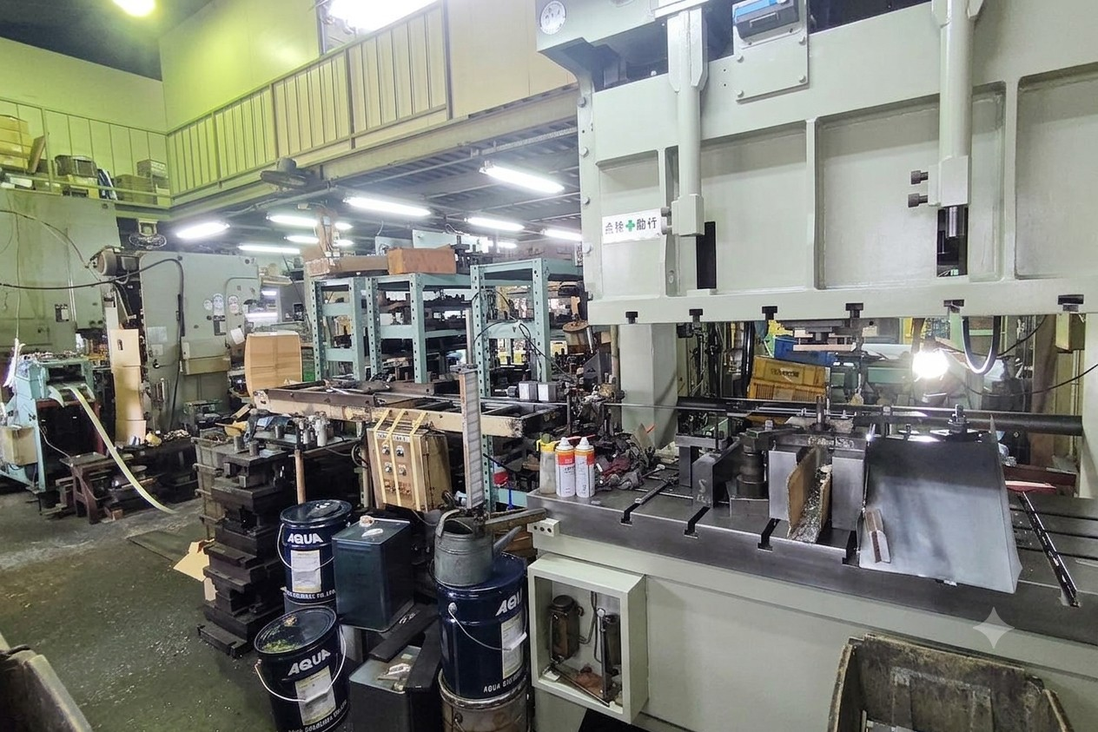
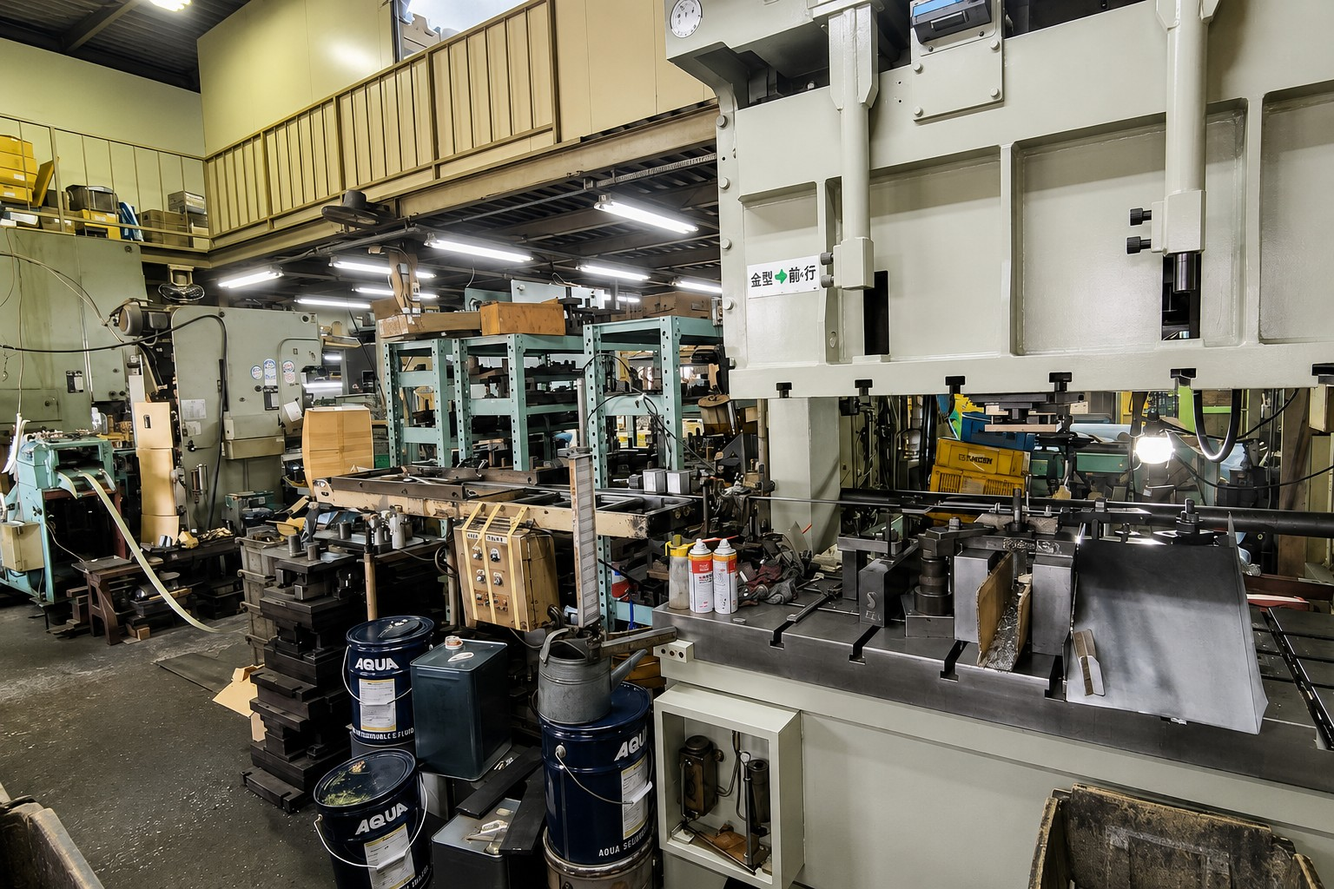
会社概要のスマホ表示と工場画像を更新

diff --git a/company.html b/company.html
@@ -1,10 +1,10 @@
 <!doctype html>
 <html lang="ja"><head><meta charset="UTF-8"><meta name="viewport" content="width=device-width,initial-scale=1">
-<title>会社概要・アクセス | 株式会社園田工作所</title><meta name="description" content="1953年創業、1967年株式会社設立。大阪府豊中市の金属加工会社、株式会社園田工作所の会社情報、沿革、所在地をご案内します。"><meta name="robots" content="index,follow,max-image-preview:large"><link rel="canonical" href="https://sonoda-kousakusho.com/company.html"><meta property="og:locale" content="ja_JP"><meta property="og:type" content="article"><meta property="og:site_name" content="株式会社園田工作所"><meta property="og:title" content="会社概要・アクセス | 株式会社園田工作所"><meta property="og:description" content="1953年創業。株式会社園田工作所の会社情報、沿革、アクセスをご案内します。"><meta property="og:url" content="https://sonoda-kousakusho.com/company.html"><meta property="og:image" content="https://sonoda-kousakusho.com/images/sign.jpg"><meta name="twitter:card" content="summary_large_image"><script type="application/ld+json">{"@context":"https://schema.org","@type":"LocalBusiness","@id":"https://sonoda-kousakusho.com/#organization","name":"株式会社園田工作所","url":"https://sonoda-kousakusho.com/","image":"https://sonoda-kousakusho.com/images/hero-factory.jpg","logo":"https://sonoda-kousakusho.com/images/logo.png","foundingDate":"1953","telephone":"+81-6-6334-9237","email":"TS.SonodaFactoryCorp@outlook.jp","address":{"@type":"PostalAddress","streetAddress":"庄内栄町4-21-7","addressLocality":"豊中市","addressRegion":"大阪府","addressCountry":"JP"}}</script><link rel="stylesheet" href="css/style.css?v=20260706-6"></head>
+<title>会社概要・アクセス | 株式会社園田工作所</title><meta name="description" content="1953年創業、1967年株式会社設立。大阪府豊中市の金属加工会社、株式会社園田工作所の会社情報、沿革、所在地をご案内します。"><meta name="robots" content="index,follow,max-image-preview:large"><link rel="canonical" href="https://sonoda-kousakusho.com/company.html"><meta property="og:locale" content="ja_JP"><meta property="og:type" content="article"><meta property="og:site_name" content="株式会社園田工作所"><meta property="og:title" content="会社概要・アクセス | 株式会社園田工作所"><meta property="og:description" content="1953年創業。株式会社園田工作所の会社情報、沿革、アクセスをご案内します。"><meta property="og:url" content="https://sonoda-kousakusho.com/company.html"><meta property="og:image" content="https://sonoda-kousakusho.com/images/sign.jpg"><meta name="twitter:card" content="summary_large_image"><script type="application/ld+json">{"@context":"https://schema.org","@type":"LocalBusiness","@id":"https://sonoda-kousakusho.com/#organization","name":"株式会社園田工作所","url":"https://sonoda-kousakusho.com/","image":"https://sonoda-kousakusho.com/images/hero-factory.jpg","logo":"https://sonoda-kousakusho.com/images/logo.png","foundingDate":"1953","telephone":"+81-6-6334-9237","email":"TS.SonodaFactoryCorp@outlook.jp","address":{"@type":"PostalAddress","streetAddress":"庄内栄町4-21-7","addressLocality":"豊中市","addressRegion":"大阪府","addressCountry":"JP"}}</script><link rel="stylesheet" href="css/style.css?v=20260706-7"></head>
 <body class="subpage"><header class="site-header subpage-header" id="header"><a class="logo" href="index.html"><img src="images/logo.png" alt="株式会社園田工作所"></a><button class="menu-button" id="menuButton" aria-label="メニューを開く" aria-expanded="false">Menu</button><nav class="global-nav" id="globalNav"><a href="service.html">事業内容</a><a href="equipment.html">設備紹介</a><a href="works.html">加工事例</a><a href="company.html" aria-current="page">会社概要</a><a class="nav-contact" href="contact.html">お問い合わせ</a></nav></header>
 <main><section class="page-hero"><div><p class="eyebrow">Company</p><h1>会社概要</h1><p>ものづくりに、誠実に向き合う。</p></div></section><nav class="breadcrumb"><a href="index.html">トップ</a><span>/</span><span>会社概要</span></nav>
 <section class="section company-message reveal"><div class="section-title"><p>Message</p><h2>確かな技術で、<br>ご要望をかたちに。</h2></div><div class="message-body"><p>株式会社園田工作所は、金属加工を通じてお客様のものづくりを支える会社です。</p><p>長年培ってきた技術と現場対応力を活かし、ステンレス・鉄・アルミなどの加工から、組立、品質検査、梱包、発送まで一貫して対応します。小ロットや特注品、現物・既存金型からの製作にも柔軟に向き合います。</p></div></section>
 <section class="section history-section reveal"><div class="section-title"><p>History</p><h2>沿革</h2></div><ol class="history-list"><li><time>1953</time><div><h3>創業</h3><p>園田工作所としてものづくりを開始。</p></div></li><li><time>1967</time><div><h3>株式会社設立</h3><p>株式会社園田工作所を設立。</p></div></li></ol></section>
 <section class="section company-profile reveal"><div class="section-title"><p>Profile</p><h2>会社情報</h2></div><div class="profile-layout"><img src="images/sign.jpg" alt="株式会社園田工作所" loading="lazy"><table class="profile-table"><tbody><tr><th>会社名</th><td>株式会社園田工作所</td></tr><tr><th>所在地</th><td>大阪府豊中市庄内栄町4-21-7</td></tr><tr><th>電話番号</th><td><a href="tel:0663349237">06-6334-9237</a></td></tr><tr><th>FAX番号</th><td>06-6334-9055</td></tr><tr><th>事業内容</th><td>ステンレス・鉄・アルミなどの金属加工、組立、品質検査、梱包、発送、現物・既存金型からの製作</td></tr></tbody></table></div></section>
 <section class="section access-section reveal"><div class="section-title"><p>Access</p><h2>アクセス</h2></div><div class="access-layout"><div class="access-info"><h3>株式会社園田工作所</h3><p>大阪府豊中市庄内栄町4-21-7</p><a href="https://www.google.com/maps/search/?api=1&query=%E5%A4%A7%E9%98%AA%E5%BA%9C%E8%B1%8A%E4%B8%AD%E5%B8%82%E5%BA%84%E5%86%85%E6%A0%84%E7%94%BA4-21-7" target="_blank" rel="noopener noreferrer" class="text-link">Googleマップで開く <span>→</span></a></div><div class="map-wrap"><iframe src="https://www.google.com/maps?q=%E5%A4%A7%E9%98%AA%E5%BA%9C%E8%B1%8A%E4%B8%AD%E5%B8%82%E5%BA%84%E5%86%85%E6%A0%84%E7%94%BA4-21-7&amp;output=embed" title="株式会社園田工作所の所在地" loading="lazy" referrerpolicy="no-referrer-when-downgrade" allowfullscreen></iframe></div></div></section>
-<section class="company-cta reveal"><p class="eyebrow">Contact</p><h2>金属加工のご相談を承ります</h2><a href="contact.html" class="btn primary">お問い合わせはこちら</a></section></main><footer class="site-footer"><p>&copy; 株式会社園田工作所</p></footer><script src="js/script.js"></script></body></html>
+<section class="company-cta reveal"><p class="eyebrow">Contact</p><h2>金属加工のご相談を<span class="mobile-break">承ります</span></h2><a href="contact.html" class="btn primary">お問い合わせはこちら</a></section></main><footer class="site-footer"><p>&copy; 株式会社園田工作所</p></footer><script src="js/script.js"></script></body></html>

diff --git a/service.html b/service.html
@@ -1,4 +1,4 @@
-<!DOCTYPE html><html lang="ja"><head><meta charset="UTF-8"><meta name="viewport" content="width=device-width,initial-scale=1"><title>事業内容・一貫対応の金属加工 | 株式会社園田工作所</title><meta name="description" content="ステンレス・鉄・アルミなどの金属加工に対応。材料手配から加工、組立、品質検査、梱包、発送まで一貫してお任せいただけます。"><meta name="robots" content="index,follow,max-image-preview:large"><link rel="canonical" href="https://sonoda-kousakusho.com/service.html"><meta property="og:locale" content="ja_JP"><meta property="og:type" content="article"><meta property="og:site_name" content="株式会社園田工作所"><meta property="og:title" content="事業内容・一貫対応の金属加工 | 株式会社園田工作所"><meta property="og:description" content="材料手配から加工、組立、品質検査、梱包、発送まで一貫対応。現物や既存金型からの製作もご相談いただけます。"><meta property="og:url" content="https://sonoda-kousakusho.com/service.html"><meta property="og:image" content="https://sonoda-kousakusho.com/images/equipment-press.jpg"><meta name="twitter:card" content="summary_large_image"><link rel="stylesheet" href="css/style.css?v=20260706-6"></head><body class="subpage"><header class="site-header subpage-header" id="header"><a class="logo" href="index.html"><img src="images/logo.png" alt="株式会社園田工作所"></a><button class="menu-button" id="menuButton" aria-label="メニューを開く" aria-expanded="false">Menu</button><nav class="global-nav" id="globalNav"><a href="service.html" aria-current="page">事業内容</a><a href="equipment.html">設備紹介</a><a href="works.html">加工事例</a><a href="company.html">会社概要</a><a class="nav-contact" href="contact.html">お問い合わせ</a></nav></header><main><section class="page-hero service-hero"><div><p class="eyebrow">Service</p><h1>事業内容</h1><p>材料手配から発送まで、柔軟な一貫対応。</p></div></section><nav class="breadcrumb"><a href="index.html">トップ</a><span>/</span><span>事業内容</span></nav>
+<!DOCTYPE html><html lang="ja"><head><meta charset="UTF-8"><meta name="viewport" content="width=device-width,initial-scale=1"><title>事業内容・一貫対応の金属加工 | 株式会社園田工作所</title><meta name="description" content="ステンレス・鉄・アルミなどの金属加工に対応。材料手配から加工、組立、品質検査、梱包、発送まで一貫してお任せいただけます。"><meta name="robots" content="index,follow,max-image-preview:large"><link rel="canonical" href="https://sonoda-kousakusho.com/service.html"><meta property="og:locale" content="ja_JP"><meta property="og:type" content="article"><meta property="og:site_name" content="株式会社園田工作所"><meta property="og:title" content="事業内容・一貫対応の金属加工 | 株式会社園田工作所"><meta property="og:description" content="材料手配から加工、組立、品質検査、梱包、発送まで一貫対応。現物や既存金型からの製作もご相談いただけます。"><meta property="og:url" content="https://sonoda-kousakusho.com/service.html"><meta property="og:image" content="https://sonoda-kousakusho.com/images/equipment-press.jpg"><meta name="twitter:card" content="summary_large_image"><link rel="stylesheet" href="css/style.css?v=20260706-7"></head><body class="subpage"><header class="site-header subpage-header" id="header"><a class="logo" href="index.html"><img src="images/logo.png" alt="株式会社園田工作所"></a><button class="menu-button" id="menuButton" aria-label="メニューを開く" aria-expanded="false">Menu</button><nav class="global-nav" id="globalNav"><a href="service.html" aria-current="page">事業内容</a><a href="equipment.html">設備紹介</a><a href="works.html">加工事例</a><a href="company.html">会社概要</a><a class="nav-contact" href="contact.html">お問い合わせ</a></nav></header><main><section class="page-hero service-hero"><div><p class="eyebrow">Service</p><h1>事業内容</h1><p>材料手配から発送まで、柔軟な一貫対応。</p></div></section><nav class="breadcrumb"><a href="index.html">トップ</a><span>/</span><span>事業内容</span></nav>
 <section class="section detail-lead reveal"><div class="section-title"><p>What We Do</p><h2>加工から発送まで、<br>ものづくりを一貫して。</h2></div><p>ステンレス・鉄・アルミなどの加工に加え、材料の手配、組立、品質検査、梱包、ご指定先への発送まで自社で一貫して対応します。図面に基づく製作はもちろん、現物や既存の金型を確認しながら、同等品の製作方法を検討することも可能です。</p></section>
 <section class="section detail-cards"><article class="detail-card reveal"><span>01</span><img src="images/stainless.jpg" alt="ステンレス加工"><div><h2>ステンレス加工</h2><p>耐久性・耐食性が求められる部品や金物を、形状や使用環境に合わせて丁寧に加工します。小ロットや特注品にも柔軟に対応します。</p></div></article><article class="detail-card reveal"><span>02</span><img src="images/steel.jpg" alt="鉄・アルミなど各種金属加工"><div><h2>鉄・アルミなど<br>各種金属加工</h2><p>鉄・アルミをはじめ、用途や仕様に応じた各種金属加工に対応します。素材や形状を踏まえて適切な製作方法を検討します。</p></div></article><article class="detail-card reveal"><span>03</span><img src="images/assembly.jpg" alt="部品の組立作業"><div><h2>組立・品質検査・梱包</h2><p>加工後の部品の組立から品質検査、梱包まで自社で対応します。完成品として仕上げ、ご指定の納品先へ直接発送することも可能です。</p></div></article><article class="detail-card reveal"><span>04</span><img class="mold-card-image" src="images/equipment-shelf.jpg" alt="保管されている既存金型"><div><h2>現物・既存金型からの製作</h2><p>図面が残っていない古い製品でも、現物の寸法や形状、既存の金型を確認しながら製作方法を検討します。</p></div></article></section>
 <section class="process-band reveal"><div class="section-title center"><p>Flow</p><h2>ご相談から発送まで</h2></div><ol class="simple-flow"><li><span>01</span><strong>ご相談・仕様確認</strong><p>用途、素材、数量、納期などを確認します。</p></li><li><span>02</span><strong>材料手配・加工</strong><p>仕様に合わせて材料を手配し、加工します。</p></li><li><span>03</span><strong>組立・品質検査</strong><p>必要に応じて組み立て、品質を確認します。</p></li><li><span>04</span><strong>梱包・発送</strong><p>完成品を梱包し、ご指定先へ発送します。</p></li></ol></section><section class="company-cta reveal"><p class="eyebrow">Contact</p><h2>材料手配から発送までご相談ください</h2><a href="contact.html" class="btn primary">お問い合わせ</a></section></main><footer class="site-footer"><p>&copy; 株式会社園田工作所</p></footer><script src="js/script.js"></script></body></html>

diff --git a/contact.html b/contact.html
@@ -1,4 +1,4 @@
-<!DOCTYPE html><html lang="ja"><head><meta charset="UTF-8"><meta name="viewport" content="width=device-width,initial-scale=1"><title>金属加工のお問い合わせ | 株式会社園田工作所</title><meta name="description" content="金属加工から組立、品質検査、梱包、発送まで株式会社園田工作所へご相談ください。現物や既存金型からの製作にも対応します。"><meta name="robots" content="index,follow,max-image-preview:large"><link rel="canonical" href="https://sonoda-kousakusho.com/contact.html"><meta property="og:locale" content="ja_JP"><meta property="og:type" content="article"><meta property="og:site_name" content="株式会社園田工作所"><meta property="og:title" content="金属加工のお問い合わせ | 株式会社園田工作所"><meta property="og:description" content="材料手配から加工、組立、品質検査、梱包、発送まで一貫してご相談いただけます。"><meta property="og:url" content="https://sonoda-kousakusho.com/contact.html"><meta property="og:image" content="https://sonoda-kousakusho.com/images/sign.jpg"><meta name="twitter:card" content="summary_large_image"><link rel="stylesheet" href="css/style.css?v=20260706-6"></head><body class="subpage"><header class="site-header subpage-header" id="header"><a class="logo" href="index.html"><img src="images/logo.png" alt="株式会社園田工作所"></a><button class="menu-button" id="menuButton" aria-label="メニューを開く" aria-expanded="false">Menu</button><nav class="global-nav" id="globalNav"><a href="service.html">事業内容</a><a href="equipment.html">設備紹介</a><a href="works.html">加工事例</a><a href="company.html">会社概要</a><a class="nav-contact" href="contact.html" aria-current="page">お問い合わせ</a></nav></header><main><section class="page-hero contact-hero"><div><p class="eyebrow">Contact</p><h1>お問い合わせ</h1><p>製作の可否やお見積もりなど、お気軽に。</p></div></section><nav class="breadcrumb"><a href="index.html">トップ</a><span>/</span><span>お問い合わせ</span></nav>
+<!DOCTYPE html><html lang="ja"><head><meta charset="UTF-8"><meta name="viewport" content="width=device-width,initial-scale=1"><title>金属加工のお問い合わせ | 株式会社園田工作所</title><meta name="description" content="金属加工から組立、品質検査、梱包、発送まで株式会社園田工作所へご相談ください。現物や既存金型からの製作にも対応します。"><meta name="robots" content="index,follow,max-image-preview:large"><link rel="canonical" href="https://sonoda-kousakusho.com/contact.html"><meta property="og:locale" content="ja_JP"><meta property="og:type" content="article"><meta property="og:site_name" content="株式会社園田工作所"><meta property="og:title" content="金属加工のお問い合わせ | 株式会社園田工作所"><meta property="og:description" content="材料手配から加工、組立、品質検査、梱包、発送まで一貫してご相談いただけます。"><meta property="og:url" content="https://sonoda-kousakusho.com/contact.html"><meta property="og:image" content="https://sonoda-kousakusho.com/images/sign.jpg"><meta name="twitter:card" content="summary_large_image"><link rel="stylesheet" href="css/style.css?v=20260706-7"></head><body class="subpage"><header class="site-header subpage-header" id="header"><a class="logo" href="index.html"><img src="images/logo.png" alt="株式会社園田工作所"></a><button class="menu-button" id="menuButton" aria-label="メニューを開く" aria-expanded="false">Menu</button><nav class="global-nav" id="globalNav"><a href="service.html">事業内容</a><a href="equipment.html">設備紹介</a><a href="works.html">加工事例</a><a href="company.html">会社概要</a><a class="nav-contact" href="contact.html" aria-current="page">お問い合わせ</a></nav></header><main><section class="page-hero contact-hero"><div><p class="eyebrow">Contact</p><h1>お問い合わせ</h1><p>製作の可否やお見積もりなど、お気軽に。</p></div></section><nav class="breadcrumb"><a href="index.html">トップ</a><span>/</span><span>お問い合わせ</span></nav>
 <section class="section contact-lead reveal"><div class="section-title center"><p>Get in Touch</p><h2>図面がなくてもご相談ください</h2></div><p>材料手配から加工、組立、品質検査、梱包、発送まで、ご希望の範囲に合わせて対応します。図面のない古い製品や、お手元の現物・既存金型を使った製作も、まずは実現できるかどうかから一緒に検討します。</p></section>
 <section class="contact-methods reveal"><a class="contact-method primary-method" href="mailto:TS.SonodaFactoryCorp@outlook.jp"><span>Mail</span><h2>メールで相談する</h2><p>TS.SonodaFactoryCorp@outlook.jp</p><strong>メールを作成 →</strong></a><a class="contact-method" href="tel:0663349237"><span>Telephone</span><h2>06-6334-9237</h2><p>加工内容についてお電話でも承ります。</p><strong>電話をかける →</strong></a></section>
 <section class="section inquiry-guide reveal"><div><p class="eyebrow dark">Information</p><h2>お持ちいただける<br>ものだけで大丈夫です</h2></div><ul><li>見本となる製品の現物</li><li>現在お持ちの金型</li><li>図面・写真・寸法メモ</li><li>必要な数量と希望納期</li><li>使用用途・設置環境</li><li>組立・検査・梱包・発送のご希望</li></ul></section>

diff --git a/index.html b/index.html
@@ -1,5 +1,5 @@
 <!DOCTYPE html>
-<html lang="ja"><head><meta charset="UTF-8"><meta name="google-site-verification" content="8xk6bvxAxPz_JtSDbTNWfZpecxhqoy-TsTcsBMfCFuc"><meta name="viewport" content="width=device-width,initial-scale=1"><title>株式会社園田工作所 | 大阪・豊中の金属加工</title><meta name="description" content="大阪府豊中市の株式会社園田工作所。ステンレス・鉄・アルミなどの金属加工から、組立、品質検査、梱包、発送まで一貫して対応します。"><meta name="robots" content="index,follow,max-image-preview:large"><link rel="canonical" href="https://sonoda-kousakusho.com/"><meta property="og:locale" content="ja_JP"><meta property="og:type" content="website"><meta property="og:site_name" content="株式会社園田工作所"><meta property="og:title" content="株式会社園田工作所 | 大阪・豊中の金属加工"><meta property="og:description" content="材料手配から加工、組立、品質検査、梱包、発送まで一貫対応する、大阪府豊中市の金属加工会社です。"><meta property="og:url" content="https://sonoda-kousakusho.com/"><meta property="og:image" content="https://sonoda-kousakusho.com/images/hero-factory.jpg"><meta name="twitter:card" content="summary_large_image"><script type="application/ld+json">{"@context":"https://schema.org","@type":"Organization","@id":"https://sonoda-kousakusho.com/#organization","name":"株式会社園田工作所","url":"https://sonoda-kousakusho.com/","logo":"https://sonoda-kousakusho.com/images/logo.png","foundingDate":"1953","telephone":"+81-6-6334-9237","email":"TS.SonodaFactoryCorp@outlook.jp","address":{"@type":"PostalAddress","streetAddress":"庄内栄町4-21-7","addressLocality":"豊中市","addressRegion":"大阪府","addressCountry":"JP"}}</script><link rel="stylesheet" href="css/style.css?v=20260706-6"></head>
+<html lang="ja"><head><meta charset="UTF-8"><meta name="google-site-verification" content="8xk6bvxAxPz_JtSDbTNWfZpecxhqoy-TsTcsBMfCFuc"><meta name="viewport" content="width=device-width,initial-scale=1"><title>株式会社園田工作所 | 大阪・豊中の金属加工</title><meta name="description" content="大阪府豊中市の株式会社園田工作所。ステンレス・鉄・アルミなどの金属加工から、組立、品質検査、梱包、発送まで一貫して対応します。"><meta name="robots" content="index,follow,max-image-preview:large"><link rel="canonical" href="https://sonoda-kousakusho.com/"><meta property="og:locale" content="ja_JP"><meta property="og:type" content="website"><meta property="og:site_name" content="株式会社園田工作所"><meta property="og:title" content="株式会社園田工作所 | 大阪・豊中の金属加工"><meta property="og:description" content="材料手配から加工、組立、品質検査、梱包、発送まで一貫対応する、大阪府豊中市の金属加工会社です。"><meta property="og:url" content="https://sonoda-kousakusho.com/"><meta property="og:image" content="https://sonoda-kousakusho.com/images/hero-factory.jpg"><meta name="twitter:card" content="summary_large_image"><script type="application/ld+json">{"@context":"https://schema.org","@type":"Organization","@id":"https://sonoda-kousakusho.com/#organization","name":"株式会社園田工作所","url":"https://sonoda-kousakusho.com/","logo":"https://sonoda-kousakusho.com/images/logo.png","foundingDate":"1953","telephone":"+81-6-6334-9237","email":"TS.SonodaFactoryCorp@outlook.jp","address":{"@type":"PostalAddress","streetAddress":"庄内栄町4-21-7","addressLocality":"豊中市","addressRegion":"大阪府","addressCountry":"JP"}}</script><link rel="stylesheet" href="css/style.css?v=20260706-7"></head>
 <body><header class="site-header" id="header"><a class="logo" href="index.html"><img src="images/logo.png" alt="株式会社園田工作所"></a><button class="menu-button" id="menuButton" aria-label="メニューを開く" aria-expanded="false">Menu</button><nav class="global-nav" id="globalNav"><a href="service.html">事業内容</a><a href="equipment.html">設備紹介</a><a href="works.html">加工事例</a><a href="company.html">会社概要</a><a class="nav-contact" href="contact.html">お問い合わせ</a></nav></header>
 <section class="hero" id="top"><div class="hero-content fade-in"><p class="eyebrow">Precision Metal Works</p><h1>確かな加工技術で、<br>ものづくりを支える。</h1><p class="hero-lead">ステンレス・鉄・アルミなどの金属加工から、組立・検査・梱包まで。<br>材料手配から発送まで一貫して対応します。</p><div class="hero-actions"><a href="contact.html" class="btn primary">加工について相談する</a><a href="works.html" class="btn secondary">加工事例を見る</a></div></div><div class="scroll-sign">Scroll</div></section>
 <main>

diff --git a/css/style.css b/css/style.css
@@ -828,3 +828,4 @@ button {
 .works-detail-grid,.works-detail-grid.compact{width:92%;max-width:1600px;padding-left:0;padding-right:0;grid-template-columns:repeat(auto-fit,minmax(240px,1fr))}.works-detail-grid img{height:auto;aspect-ratio:1/1}
 @media(max-width:640px){.works-detail-grid,.works-detail-grid.compact{grid-template-columns:repeat(2,minmax(0,1fr));gap:12px}.works-detail-grid figcaption{padding:12px 10px}.works-detail-grid figcaption strong{font-size:15px}.works-detail-grid figcaption span{font-size:9px;letter-spacing:.1em}}
 .detail-card .mold-card-image{object-position:center 48%}
+.company-cta .mobile-break{display:inline}@media(max-width:640px){.company-cta .mobile-break{display:block}}

diff --git a/equipment.html b/equipment.html
@@ -15,7 +15,7 @@
 <meta property="og:url" content="https://sonoda-kousakusho.com/equipment.html">
 <meta property="og:image" content="https://sonoda-kousakusho.com/images/factory-inside.jpg">
 <meta name="twitter:card" content="summary_large_image">
-<link rel="stylesheet" href="css/style.css?v=20260706-6">
+<link rel="stylesheet" href="css/style.css?v=20260706-7">
 </head>
 <body class="subpage">
 <header class="site-header subpage-header" id="header">

diff --git a/works.html b/works.html
@@ -15,7 +15,7 @@
 <meta property="og:url" content="https://sonoda-kousakusho.com/works.html">
 <meta property="og:image" content="https://sonoda-kousakusho.com/images/kakou1.png">
 <meta name="twitter:card" content="summary_large_image">
-<link rel="stylesheet" href="css/style.css?v=20260706-6">
+<link rel="stylesheet" href="css/style.css?v=20260706-7">
 </head>
 <body class="subpage">
 <header class="site-header subpage-header" id="header">
